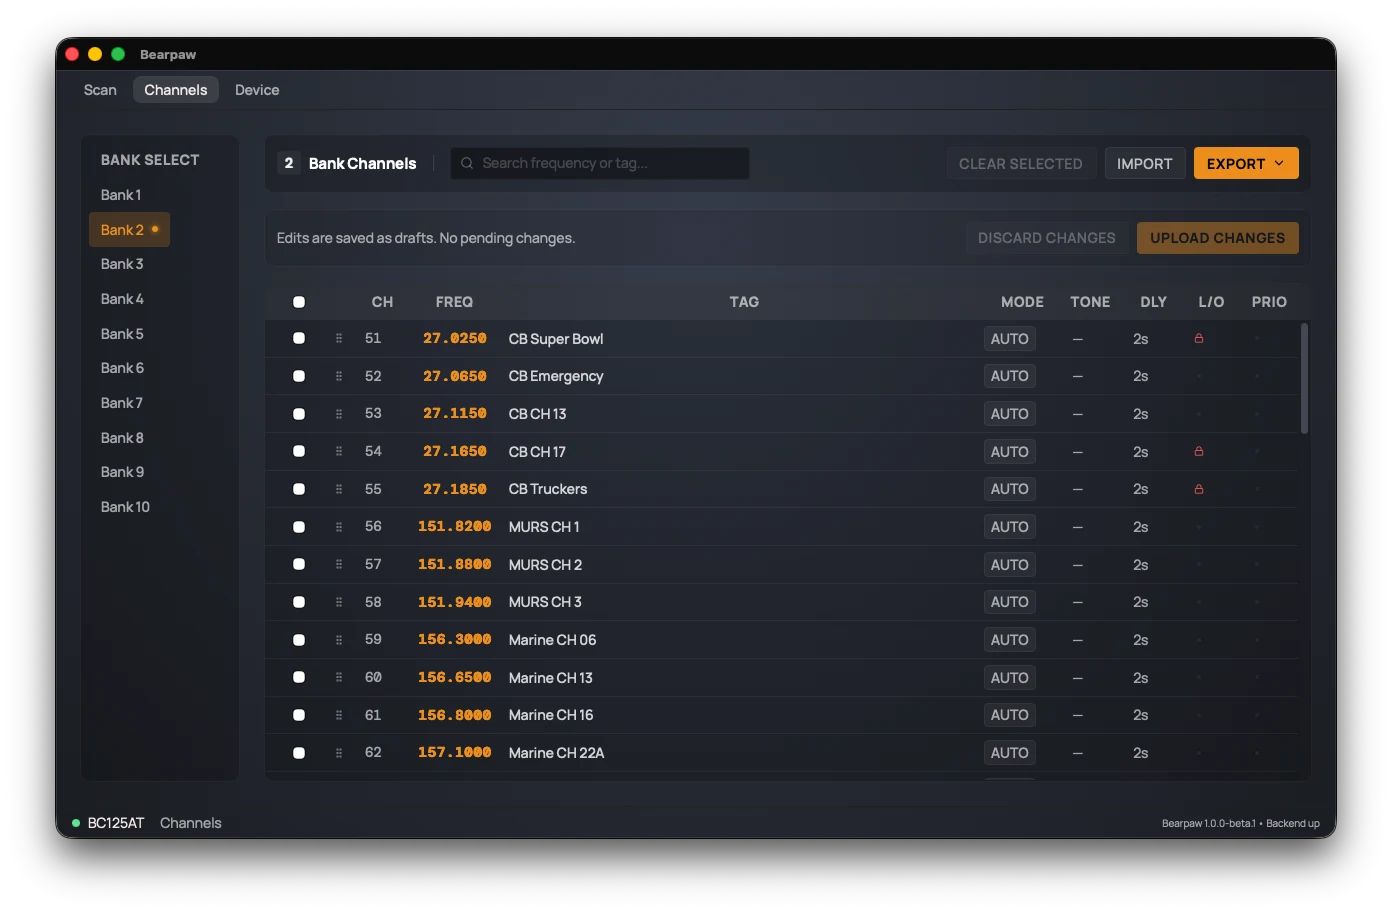
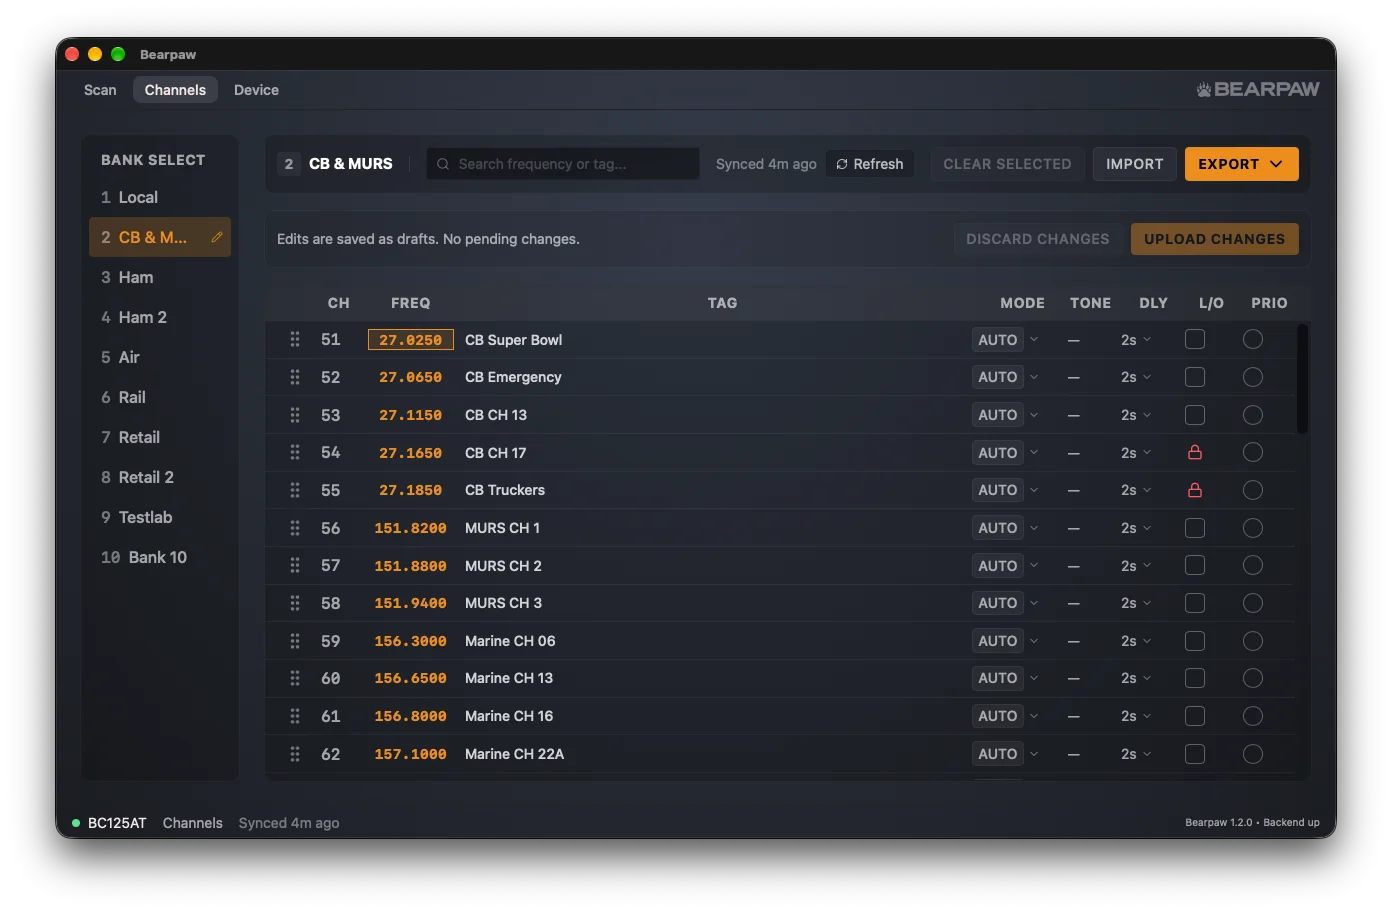
docs(guide): retake the screenshots for 1.2.0
Seven guide images dated from a 1.0 beta and showed removed UI: row
checkboxes, the VOL popup, and a Device Information card with no
scanner list. The Preferences shot showed v1.1.2. All eight are
retaken from this branch, so every footer reads 1.2.0, the #763 way:
a 1280x800 window capture with shadow (1392x912), WebP quality 85.
Alt text updated to match each new image.

Fixes #801

diff --git a/site/docs/device-config.html b/site/docs/device-config.html
@@ -77,7 +77,7 @@
         <figure class="docs-figure">
           <img
             src="assets/device-config.webp"
-            alt="The Device Config section with the Priority Mode dropdown open, listing Off, On, Plus, and DND. Around it: Audio & Power (Volume, Squelch, Battery Saver), Display & System (Backlight, Contrast, Key Beep), a Weather Alert Priority toggle, and a read-only Device Information card."
+            alt="The Device Config section scrolled down: Audio &amp; Power (Volume, Squelch, Battery Saver), Display &amp; System (Backlight, Contrast, Key Beep), Scanning Logic (Priority Mode, Weather Alert Priority), and Device Information listing two known scanners, a connected BC125AT with a Rename button and a BC75XLT last seen 3 hours ago with Forget and Rename, above the model, port, status, firmware, and memory."
           />
           <figcaption>Device Config — the scanner's core settings.</figcaption>
         </figure>

diff --git a/site/docs/getting-started.html b/site/docs/getting-started.html
@@ -187,7 +187,7 @@
         <figure class="docs-figure">
           <img
             src="assets/scan-dashboard.webp"
-            alt="Bearpaw's Scan tab during a hit: the big amber display reads 'WOF Security' with frequency 463.425 NFM CH 84, the Recent Hits list on the right, and the Busiest Channels and Activity Heatmap dashboards below."
+            alt="Bearpaw's Scan tab during a hit: the big amber display reads 'Ararat UHF' at 145.130 NFM on channel 2, with VOL and SQL sliders along its top and named bank buttons along its bottom. The Recent Hits list is on the right, and the Busiest Channels and Activity Heatmap dashboards are below."
           />
           <figcaption>
             The Scan tab during a hit — big display, Recent Hits, and the

diff --git a/site/docs/service-search.html b/site/docs/service-search.html
@@ -83,7 +83,7 @@
         <figure class="docs-figure">
           <img
             src="assets/device-service-search.webp"
-            alt="The Service Search section: ten service toggles (Police, Fire/Emergency, Ham, Marine, Railroad, Civil Air, Military Air, CB, FRS/GMRS/MURS, Racing) and Search Settings for Code Search and Search Delay."
+            alt="The Service Search section: a note that each change leaves the scanner in Hold until you press Func then Srch, ten service toggles (Police, Fire/Emergency, Ham, Marine, Railroad, Civil Air, Military Air, CB, FRS/GMRS/MURS, Racing), and Search Settings for Code Search and Search Delay."
           />
           <figcaption>
             Service Search — factory band presets, run on the radio.

diff --git a/site/docs/channels.html b/site/docs/channels.html
@@ -209,7 +209,7 @@
         <figure class="docs-figure">
           <img
             src="assets/channels-tab.webp"
-            alt="The Channels tab showing Bank 2: a bank sidebar on the left, and an editable grid of channels with CH, FREQ, TAG, MODE, TONE, DLY, L/O, and PRIO columns, plus Import, Export, and Upload Changes controls."
+            alt="The Channels tab showing bank 2, named CB &amp; MURS, with a pencil to rename it: named banks in the sidebar, a toolbar with search, the sync time, Refresh, Clear Selected, Import, and Export, and a grid of channels with CH, FREQ, TAG, MODE, TONE, DLY, L/O, and PRIO columns."
           />
           <figcaption>
             The Channels tab — the per-bank editable grid, with Import, Export,

diff --git a/site/docs/close-call.html b/site/docs/close-call.html
@@ -78,7 +78,7 @@
         <figure class="docs-figure">
           <img
             src="assets/device-close-call.webp"
-            alt="The Close Call section with the Mode dropdown open, listing Off, CC DND, CC Priority, and CC Only. Behind it: a Lockout Hits While Scanning toggle, Alert Beep and Alert Light toggles, and Enabled Bands switches for VHF Low, Air, VHF High, UHF, and 800 MHz."
+            alt="The Close Call section with Mode set to Off, which greys out the rest: a Lockout Hits While Scanning toggle, Alert Beep and Alert Light toggles, and Enabled Bands switches for VHF Low, Air, VHF High, UHF, and 800 MHz."
           />
           <figcaption>Close Call — nearby-strong-signal detection.</figcaption>
         </figure>

diff --git a/site/docs/locked-channels.html b/site/docs/locked-channels.html
@@ -69,7 +69,7 @@
         <figure class="docs-figure">
           <img
             src="assets/device-locked-channels.webp"
-            alt="The Locked Channels section: a summary showing 36 locked channels, a search box and bank filter, and a table of locked channels each with a per-row Unlock button."
+            alt="The Locked Channels section: a summary showing 41 locked channels, a search box and bank filter, a table of locked channels each with a per-row Unlock button, and an empty Avoided Frequencies list below."
           />
           <figcaption>Locked Channels — review and clear the skip list.</figcaption>
         </figure>

diff --git a/site/docs/custom-search.html b/site/docs/custom-search.html
@@ -69,7 +69,7 @@
         <figure class="docs-figure">
           <img
             src="assets/device-custom-search.webp"
-            alt="The Custom Search section: a table of ten ranges (R-1 to R-10), each with an Active switch and Lower and Upper frequency values in MHz."
+            alt="The Custom Search section, 3 of 10 active: a note that each change leaves the scanner in Hold until you press Srch, and a table of ten ranges (R-1 to R-10), each with an Active switch and Lower and Upper frequencies in MHz."
           />
           <figcaption>Custom Search — your own frequency ranges.</figcaption>
         </figure>

diff --git a/site/docs/scan.html b/site/docs/scan.html
@@ -73,7 +73,7 @@
         <figure class="docs-figure">
           <img
             src="assets/scan-dashboard.webp"
-            alt="The Scan tab: a large amber display showing a hit, the Recent Hits list, and the Busiest Channels bar chart and Activity Heatmap below."
+            alt="The Scan tab: a large amber display showing a hit, with VOL and SQL sliders along the top and named bank buttons along the bottom, the Recent Hits list, and the Busiest Channels bar chart and Activity Heatmap below."
           />
           <figcaption>The Scan tab, mid-hit.</figcaption>
         </figure>
